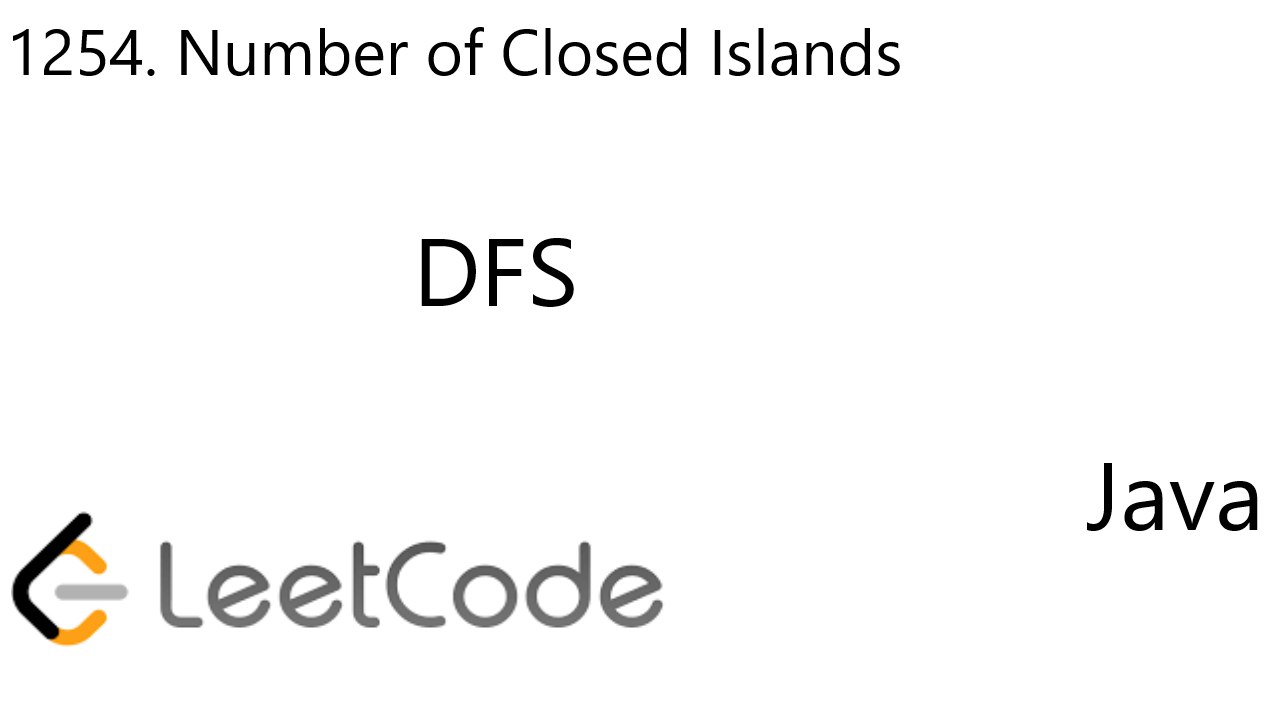
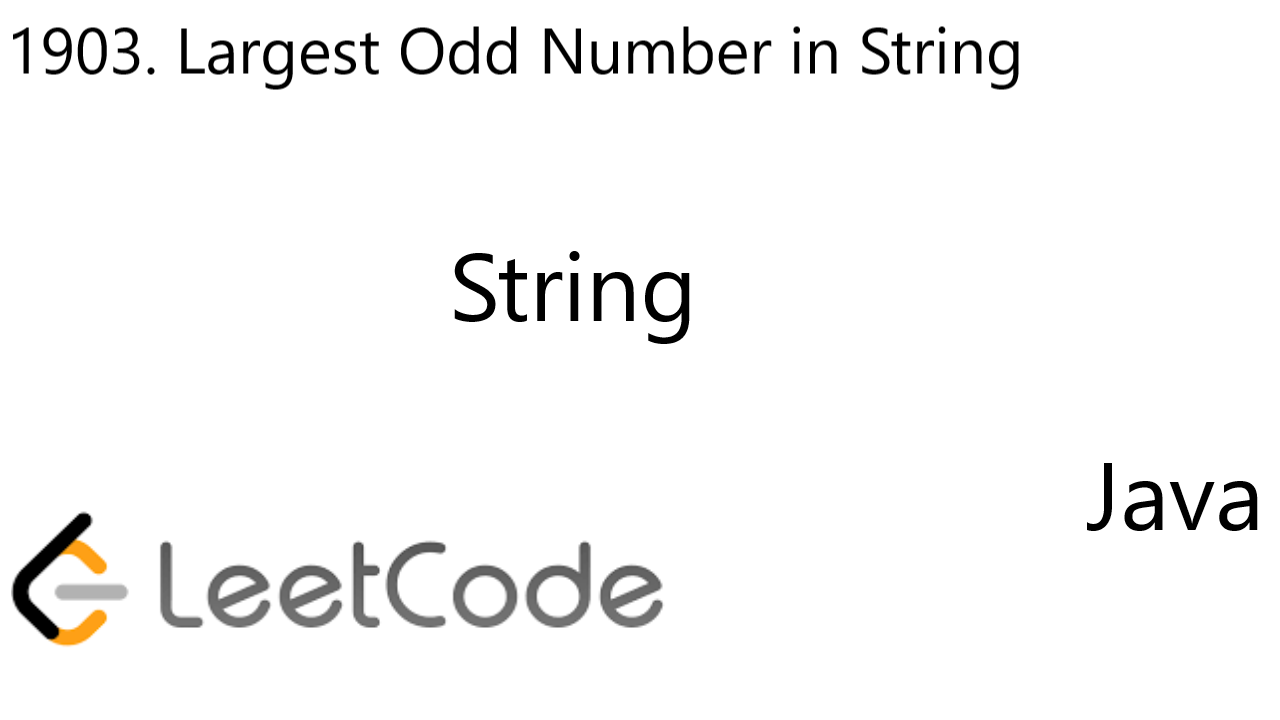
update

Changed region(s): [[0.0312, 0.0306, 0.8125, 0.1222], [0.3125, 0.3056, 0.5625, 0.4889]]

diff --git a/LeetCode/00445. Add Two Numbers II/README.MD b/LeetCode/00445. Add Two Numbers II/README.MD
@@ -1,0 +1,96 @@
+```
+/**
+ * Definition for singly-linked list.
+ * public class ListNode {
+ *     int val;
+ *     ListNode next;
+ *     ListNode() {}
+ *     ListNode(int val) { this.val = val; }
+ *     ListNode(int val, ListNode next) { this.val = val; this.next = next; }
+ * }
+ */
+```
+# Stack
+* Time Complexity: O(Max(L1, L2))
+* Space Complexity: O(Max(L1, L2))
+	* L1 as length of l1
+	* L2 as length of l2
+```
+class Solution {
+    public ListNode addTwoNumbers(ListNode l1, ListNode l2) {
+        Stack<Integer> s1 = new Stack<>(),
+                       s2 = new Stack<>();
+        while(l1 != null){
+            s1.push(l1.val);
+            l1 = l1.next;
+        }
+        while(l2 != null){
+            s2.push(l2.val);
+            l2 = l2.next;
+        }
+        
+        ListNode list = new ListNode(0);
+        int carry = 0;
+        while(!s1.isEmpty() || !s2.isEmpty()){
+            int digit1 = (s1.isEmpty())?0: s1.pop(),
+                digit2 = (s2.isEmpty())?0: s2.pop();
+            int sum = digit1 + digit2 + carry;
+            carry = sum / 10;
+            list.val = sum % 10;
+            ListNode head = new ListNode(carry);
+            head.next = list;
+            list = head;
+        }
+        if(carry != 0){
+            ListNode temp = new ListNode(1);
+            temp.next = list;
+            list = temp;
+        }
+        return list.next;
+    }
+}
+```
+# LinkedList
+* Time Complexity: O(Max(L1, L2))
+* Space Complexity: O(Max(L1, L2))
+	* L1 as length of l1
+	* L2 as length of l2
+```
+class Solution {
+    public ListNode addTwoNumbers(ListNode l1, ListNode l2) {
+        l1 = reserveLinkedList(l1);
+        l2 = reserveLinkedList(l2);
+        return add(l1, l2);
+    }
+    public ListNode add(ListNode l1, ListNode l2) {
+        ListNode dummyhead = new ListNode(0),
+                 head = dummyhead;
+        int carry = 0;
+        while(l1 != null || l2 != null){
+            int val1 = (l1 == null)?0: l1.val,
+                val2 = (l2 == null)?0: l2.val;
+            int sum = val1 + val2 + carry;
+            ListNode node = new ListNode(sum%10);
+            carry = sum / 10;
+            dummyhead.next = node;
+            dummyhead = dummyhead.next;
+            l1 = (l1 == null)?null:l1.next;
+            l2 = (l2 == null)?null:l2.next;
+        }
+        if(carry != 0){
+            dummyhead.next = new ListNode(1);
+        }
+        return reserveLinkedList(head.next);
+    }
+    public ListNode reserveLinkedList(ListNode node){
+        ListNode prev = null;
+        while(node != null){
+            ListNode next = node.next;
+            node.next = prev;
+            prev = node;
+            node = next;
+        }
+        return prev;
+    }
+}
+```

diff --git a/LeetCode/00073. Set Matrix Zeroes/README.MD b/LeetCode/00073. Set Matrix Zeroes/README.MD
@@ -6,29 +6,26 @@
 ```
 class Solution {
     public void setZeroes(int[][] matrix) {
-        Queue<int[]> queue = new LinkedList();
-        int n = matrix.length,
-            m = matrix[0].length;
-        for(int i = 0; i < n; i++){
-            for(int j = 0; j < m; j++){
+        Queue<int[]> q = new LinkedList();
+        for(int i = 0; i < matrix.length; i++){
+            for(int j = 0; j < matrix[0].length; j++){
                 if(matrix[i][j] == 0){
-                    queue.offer(new int[]{i,j});
+                    q.add(new int[]{i, j});
                 }
             }
         }
-        while(!queue.isEmpty()){
-            int[] cell = queue.poll();
-            updateMatrix(matrix, cell[0], cell[1]);
+        while(!q.isEmpty()){
+            int[] p = q.poll();
+            dfs(matrix, p[0], p[1]);
         }
     }
-    public void updateMatrix(int[][] matrix, int row, int col){
-        int n = matrix.length,
-            m = matrix[0].length;
-        for(int i = 0; i < m; i++){
-            matrix[row][i] = 0;
-        }
-        for(int i = 0; i < n; i++){
+
+    public void dfs(int[][] matrix, int row, int col){
+        for(int i = 0; i < matrix.length; i++){
             matrix[i][col] = 0;
+        }
+        for(int i = 0; i < matrix[0].length; i++){
+            matrix[row][i] = 0;
         }
     }
 }

diff --git a/LeetCode/00135. Candy/README.MD b/LeetCode/00135. Candy/README.MD
@@ -1,26 +1,23 @@
 # DP
 * Time Complexity: O(N)
 * Space Complexity: O(N)
+	* N as length of ratings
 ```
 class Solution {
     public int candy(int[] ratings) {
         int[] dp = new int[ratings.length];
         Arrays.fill(dp, 1);
         for(int i = 1; i < ratings.length; i++){
-            if(ratings[i-1] < ratings[i]){
+            if(ratings[i] > ratings[i-1]){
                 dp[i] = dp[i-1] + 1;
             }
         }
-        for(int i = ratings.length - 2; i >= 0; i--){
+        for(int i = ratings.length-2; i >= 0; i--){
             if(ratings[i] > ratings[i+1]){
-                dp[i] = Math.max(dp[i+1] + 1, dp[i]);
+                dp[i] = Math.max(dp[i], dp[i+1] + 1);
             }
         }
-        int res = 0;
-        for(int i = 0; i < ratings.length; i++){
-            res += dp[i];
-        }
-        return res;
+        return Arrays.stream(dp).sum();
     }
 }
 ```

diff --git a/LeetCode/01768. Merge Strings Alternately/README.MD b/LeetCode/01768. Merge Strings Alternately/README.MD
@@ -1,22 +1,23 @@
+# Array
+* Time Complexity: O(Max(N, M))
+* Space Complexity: O(N+M)
+	* N as length of word1
+	* M as length of word2
+```
 class Solution {
     public String mergeAlternately(String word1, String word2) {
+        int i = 0,
+            j = 0;
         StringBuilder sb = new StringBuilder();
-        
-        int i = 0, j = 0;
-        
         while(i < word1.length() || j < word2.length()){
-            
             if(i < word1.length()){
                 sb.append(word1.charAt(i++));
             }
-            
             if(j < word2.length()){
                 sb.append(word2.charAt(j++));
             }
-            
         }
-        
-        
         return sb.toString();
     }
 }
+```

diff --git a/LeetCode/00983. Minimum Cost For Tickets/README.MD b/LeetCode/00983. Minimum Cost For Tickets/README.MD
@@ -1,0 +1,24 @@
+# DP
+* Time Complexity: O(D)
+* Space Complexity: O(366)
+	* D as lastDay
+```
+class Solution {
+    public int mincostTickets(int[] days, int[] costs) {
+        int[] dp = new int[366];
+        int lastDay = days[days.length-1];
+        int j = 0;
+        for(int i = 1; i <= lastDay; i++){
+            if(i != days[j]){
+                dp[i] = dp[i-1];
+            }else{
+                dp[i] = dp[i-1] + costs[0];
+                dp[i] = Math.min(dp[i], dp[Math.max(0, i-7)] + costs[1]);
+                dp[i] = Math.min(dp[i], dp[Math.max(0, i-30)] + costs[2]);
+                j++;
+            }
+        }
+        return dp[lastDay];
+    }
+}
+```

diff --git a/LeetCode/01672. Richest Customer Wealth/README.MD b/LeetCode/01672. Richest Customer Wealth/README.MD
@@ -1,18 +1,14 @@
 # Traverse
-* Time Complexity: O(MN)
+* Time Complexity: O(AN)
 * Space Complexity: O(1)
-	* M as length of accounts
+	* A as length of accounts
 	* N as length of accounts[0]
 ```
 class Solution {
     public int maximumWealth(int[][] accounts) {
         int res = 0;
-        for(int i = 0; i < accounts.length; i++){
-            int money = 0;
-            for(int j = 0; j < accounts[0].length; j++){
-                money += accounts[i][j];
-            }
-            res = Math.max(res, money);
+        for(int[] account: accounts){
+            res = Math.max(res, Arrays.stream(account).sum());
         }
         return res;
     }

diff --git a/LeetCode/00058. Length of Last Word/README.MD b/LeetCode/00058. Length of Last Word/README.MD
@@ -1,0 +1,23 @@
+# Array
+* Time Complexity: O(S)
+* Space Complexity: O(1)
+	* S as length of s
+```
+class Solution {
+    public int lengthOfLastWord(String s) {
+        int res = 0;
+        for(int i = s.length()-1; i >= 0; i--){
+            char c = s.charAt(i);
+            if(c == ' ' && res == 0){
+                continue;
+            }
+            if(c != ' '){
+                res++;
+            }else{
+                return res;
+            }
+        }
+        return res;
+    }
+}
+```

diff --git a/LeetCode/01903. Largest Odd Number in String/README.MD b/LeetCode/01903. Largest Odd Number in String/README.MD
@@ -1,0 +1,16 @@
+# String
+* Time Complexity: O(N)
+* Space Complexity: O(N)
+	* N as length of nums
+```
+class Solution {
+    public String largestOddNumber(String num) {
+        for(int i = num.length() - 1; i >= 0; i--){
+            if((num.charAt(i)-'0')%2 != 0){
+                return num.substring(0, i+1);
+            }
+        }
+        return "";
+    }
+}
+```

diff --git a/LeetCode/00709. To Lower Case/README.MD b/LeetCode/00709. To Lower Case/README.MD
@@ -1,0 +1,15 @@
+# Array
+* Time Complexity: O(S)
+* Space Complexity: O(S)
+	* S as length of s
+```
+class Solution {
+    public String toLowerCase(String s) {
+        StringBuilder sb = new StringBuilder();
+        for(char c: s.toCharArray()){
+            sb.append(Character.toLowerCase(c));
+        }
+        return sb.toString();
+    }
+}
+```
